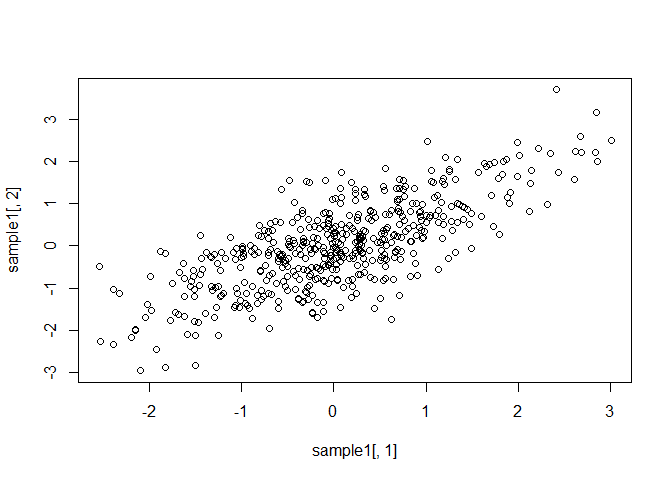
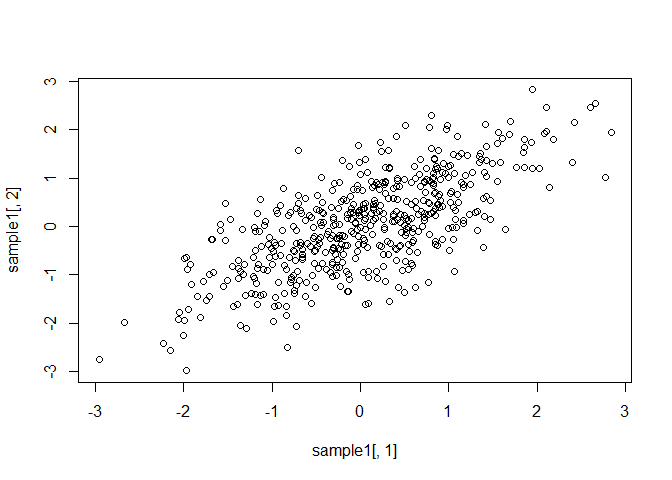
Change figure size in README

diff --git a/README.md b/README.md
@@ -59,11 +59,11 @@ sample1 = rmvToep(500, Sigma)
 plot(sample1[, 1], sample1[, 2])
 ```
 
-<img src="man/figures/README-example-rmvToep-1.png" width="100%" />
+<img src="man/figures/README-example-rmvToep-1.png" width="50%" style="display: block; margin: auto;" />
 
 ``` r
 (cor(sample1[, 1], sample1[, 2]))
-#> [1] 0.7300089
+#> [1] 0.7032641
 ```
 
 To use `rmvToep` function, a symmetric and Toeplitz-structured
@@ -80,11 +80,11 @@ AR model, the corrrelation coefficient of neighborhood is known to be
 plot(sample1[, 1], sample1[, 21])
 ```
 
-<img src="man/figures/README-unnamed-chunk-2-1.png" width="100%" />
+<img src="man/figures/README-unnamed-chunk-2-1.png" width="50%" style="display: block; margin: auto;" />
 
 ``` r
 (cor(sample1[, 1], sample1[, 21]))
-#> [1] -0.01624695
+#> [1] 0.04555786
 ```
 
 In contrast, two indexes located far from each other show negligable
